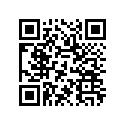
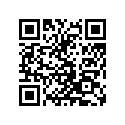
Fixed bug so QR image refreshes in label when price is changed -Using ImageIO instead of FileIO

Changed region(s): [[0.12, 0.12, 0.864, 0.864], [0.888, 0.528, 0.912, 0.552], [0.888, 0.48, 0.912, 0.504]]

diff --git a/CoffeShop/src/coffeshop/PaymentPage.java b/CoffeShop/src/coffeshop/PaymentPage.java
@@ -17,12 +17,17 @@ import java.util.logging.Level;
 import java.util.logging.Logger;
 import javax.swing.ImageIcon;
 import javax.swing.JOptionPane;
+import javax.imageio.ImageIO;
+import java.awt.image.BufferedImage;
+import java.io.InputStream;
 
 import java.io.File;
+import java.io.IOException;
 import java.io.FileOutputStream;
 import net.glxn.qrgen.QRCode;
 import net.glxn.qrgen.image.ImageType;
 import java.io.ByteArrayOutputStream;
+import java.io.ByteArrayInputStream;
 
 /**
  *
@@ -944,20 +949,23 @@ public class PaymentPage extends javax.swing.JFrame {
     }//GEN-LAST:event_jbtnBitcoinActionPerformed
 
     private void generateQR(String btcPay) throws Exception{
-   
-        File d = new File("src\\ImageRes\\QR.jpg");
-        d.delete();
         
+        byte[] imageInByte;
+        BufferedImage originalImage = ImageIO.read(new File("src\\ImageRes\\QR.jpg"));
+
         String details = "Address: abc298soilzi772\nAmount: " + btcPay;
         QRCode.from(details).withSize(125, 125).file();
         QRCode.from(details).withSize(125, 125).stream();
         ByteArrayOutputStream out = QRCode.from(details).to(ImageType.JPG).stream();
-        File f = new File("src\\ImageRes\\QR.jpg");
-        FileOutputStream fos = new FileOutputStream(f);
- 
-        fos.write(out.toByteArray());
-        fos.close();
-        fos.flush();
+        ImageIO.write(originalImage, "jpg", out);
+        out.flush();
+        imageInByte = out.toByteArray();
+        out.close();
+        
+        InputStream in = new ByteArrayInputStream(imageInByte);
+        BufferedImage bImageFromConvert = ImageIO.read(in);
+        
+        ImageIO.write(bImageFromConvert, "jpg", new File("src\\ImageRes\\QR.jpg"));
         
     }
     
@@ -985,11 +993,16 @@ public class PaymentPage extends javax.swing.JFrame {
         } catch (Exception ex){
             JOptionPane.showMessageDialog(null, "Error generating QR Code");
         }
-        
-        ImageIcon icon = new ImageIcon("src/ImageRes/QR.jpg");
-        lblQRC.setIcon(icon);
-
-
+       try {
+            BufferedImage image = ImageIO.read(new File("src/ImageRes/QR.jpg"));
+            ImageIcon icon = new ImageIcon(image);
+            icon.getImage().flush();
+            lblQRC.setIcon(icon);
+       } catch(IOException ex){
+           System.out.println(ex.getMessage());
+       }
+       
+      
         if (lblQRC.getIcon() == null) {
             lblQRC.setIcon(defaultQR);
             JOptionPane.showMessageDialog(null, "Wrong QR Code. Please try again.", "Wrong QR Code", JOptionPane.PLAIN_MESSAGE);
